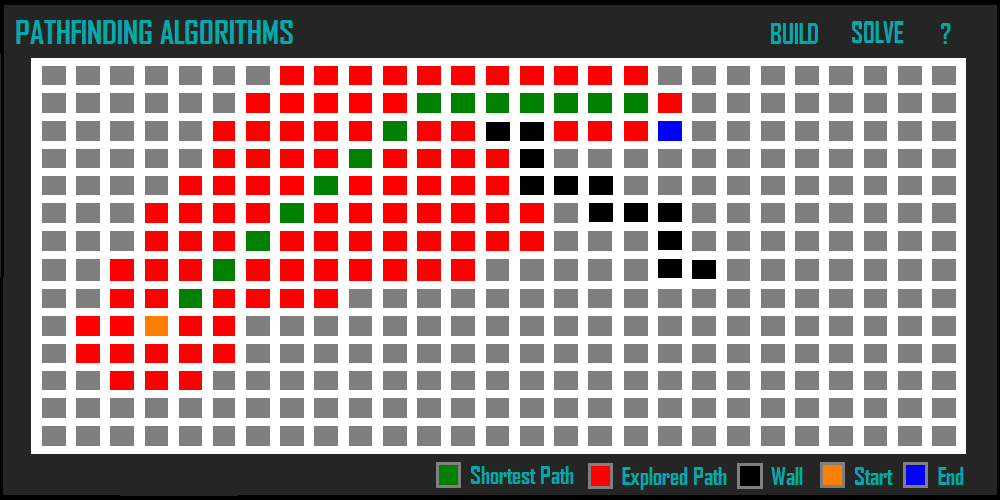
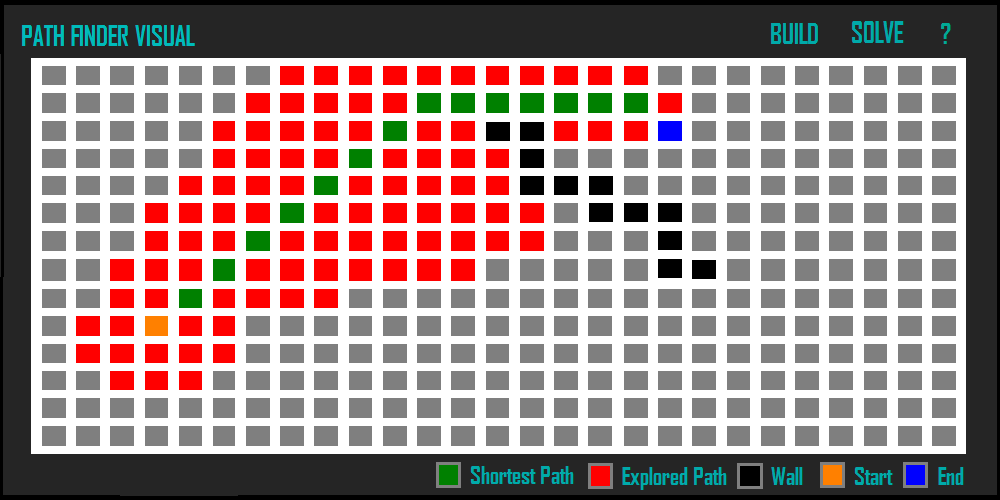
Renaming

Changed region(s): [[0.0, 0.03, 0.31, 0.09]]

diff --git a/pathfinding-algorithms/src/style.css b/pathfinding-algorithms/src/style.css
@@ -37,15 +37,15 @@ html {
 
 .legend {
     float: right;
-    background-color: white;
     box-sizing: border-box;
-    width: 60vw;
+    width: 80vw;
     height: 4vw;
     margin-top: 0.8vw;
     margin-right: 2vw;
 }
 
 .DD {
+    float: right;
     cursor: default;
     height: inherit;
     text-align: center;
@@ -64,18 +64,15 @@ html {
 }
 
 #build{
-    float: right;
     width: 10vw;
 }
 
 #solve{
-    float: right;
     margin-left: 2vw;
     width: 10vw;
 }
 
 #help {
-    float: right;
     margin-left: 2vw;
     width: 4vw;
     font-size: 2vw;
@@ -117,4 +114,31 @@ html {
 
 .DDBtn:active {
     transform: translateY(0.2vw);
+}
+
+.legend-element {
+    cursor: default;
+    float: right;
+    font-size: 1.6vw;
+    padding-top: 0.8vw;
+    padding-right: 2vw;
+    color: rgba(0, 255, 255, 0.67);
+}
+
+#end-element {
+    padding-right: 0vw;
+}
+
+.symbol-border {
+    float: left;
+    width: 2vw;
+    height: 2vw;
+    margin-right: 1vw;
+    border-style: solid;
+    border-color: rgba(255, 255, 255, 0.4);
+}
+
+.symbol {
+    width: inherit;
+    height: inherit;
 }

diff --git a/pathfinding-algorithms/src/components/legend/Legend.js b/pathfinding-algorithms/src/components/legend/Legend.js
@@ -1,0 +1,18 @@
+import React, {Component} from "react"
+import LegendElement from "./LegendElement"
+
+class Legend extends Component{
+    render(){
+        return(
+            <div className="legend">
+                <LegendElement name="End" id="end-element" color="blue"/>
+                <LegendElement name="Start" color="orange"/>
+                <LegendElement name="Wall" color="black"/>
+                <LegendElement name="Explored Path" color="red"/>
+                <LegendElement name="Shortest Path" color="green"/>
+            </div>
+        )
+    }
+}
+
+export default Legend

diff --git a/pathfinding-algorithms/src/App.js b/pathfinding-algorithms/src/App.js
@@ -1,8 +1,8 @@
 import React, { Component } from "react"
 import Title from "./components/Title"
-import Grid from "./components/Grid"
-import ControlPanel from "./components/ControlPanel"
-import Legend from "./components/Legend"
+import Grid from "./components/grid/Grid"
+import ControlPanel from "./components/control/ControlPanel"
+import Legend from "./components/legend/Legend"
 
 class App extends Component {
     render() {

diff --git a/pathfinding-algorithms/src/components/legend/LegendElement.js b/pathfinding-algorithms/src/components/legend/LegendElement.js
@@ -1,0 +1,15 @@
+import React, {Component} from "react"
+import Symbol from "./Symbol"
+
+class LegendElement extends Component{
+    render(){
+        return(
+            <div className="legend-element" id={this.props.id}>
+                <Symbol color={this.props.color}/>
+                {this.props.name}
+            </div>
+        )
+    }
+}
+
+export default LegendElement

diff --git a/pathfinding-algorithms/src/components/legend/Symbol.js b/pathfinding-algorithms/src/components/legend/Symbol.js
@@ -1,0 +1,13 @@
+import React, {Component} from "react"
+
+class Symbol extends Component{
+    render(){
+        return(
+            <div className="symbol-border">
+                <div className="symbol" style={{backgroundColor: this.props.color}}></div>
+            </div>
+        )
+    }
+}
+
+export default Symbol

diff --git a/pathfinding-algorithms/public/index.html b/pathfinding-algorithms/public/index.html
@@ -1,7 +1,8 @@
 <html>
     <head>
-        <title>Pathfinding Algorithms</title>
+        <title>Pathfinder Visual</title>
         <link rel="stylesheet" href="https://fonts.googleapis.com/css?family=Audiowide">
+        <link rel="icon" href="favicon.ico">
     </head>
     <body>
         <div id="root">

diff --git a/pathfinding-algorithms/src/components/Title.js b/pathfinding-algorithms/src/components/Title.js
@@ -2,7 +2,7 @@ import React from "react"
 
 function Title() {
     return(
-        <h1 id="title">PATHFINDING ALGORITHMS</h1>
+        <h1 id="title">PATHFINDER VISUAL</h1>
     )
 }
 
